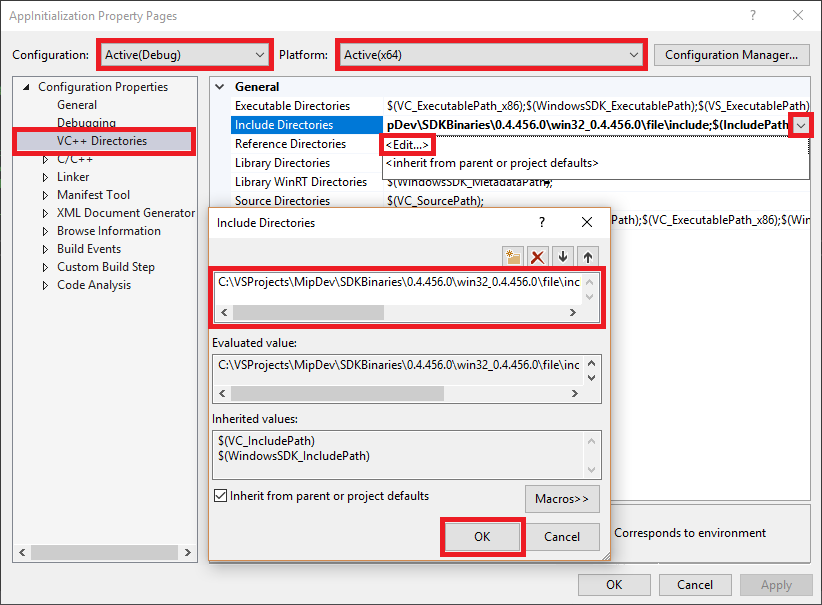
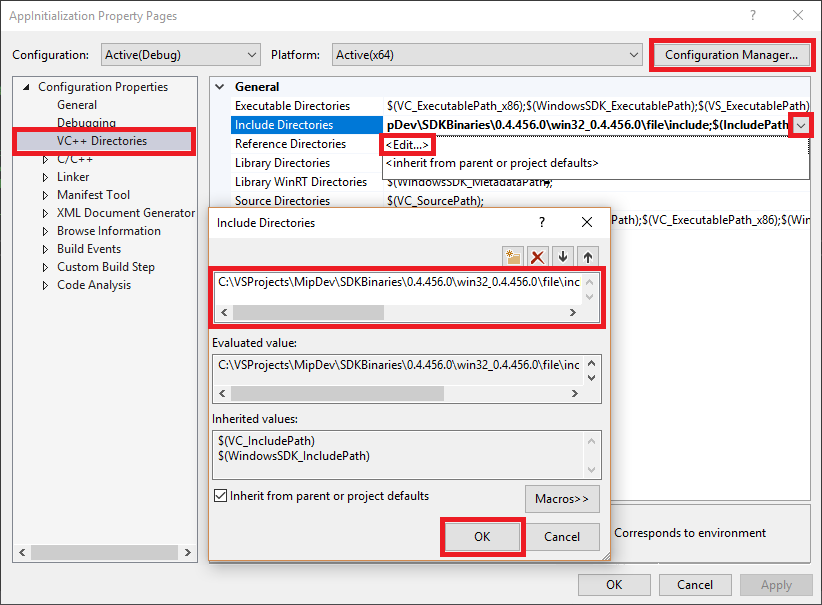
updates

Changed region(s): [[0.0912, 0.0595, 1.0, 0.119]]

diff --git a/mip/develop/quick-app-initialization-cpp.md b/mip/develop/quick-app-initialization-cpp.md
@@ -11,7 +11,7 @@ ms.author: bryanla
 
 # Quickstart: Client application initialization (C++)
 
-This quickstart illustrates the client initialization pattern used by the MIP C++ SDK at runtime. 
+This quickstart will show you how to implement the client initialization pattern, used by the MIP C++ SDK at runtime. 
 
 > [!NOTE]
 > The steps outlined in this quickstart are required for any client application that uses the MIP File, Policy, or Protection APIs. Although this Quickstart demonstrates usage of the File APIs, this same pattern is applicable to clients using the Policy and Protection APIs. Future Quickstarts should be done serially, as each one builds on the previous one, with this one being the first.
@@ -30,7 +30,7 @@ If you haven't already, be sure to:
 
 First we create and configure the initial Visual Studio solution and project, upon which the Quickstarts will build. 
 
-1. Open Visual Studio 2017, select **File**, **New**, **Project**. In the **New Project** dialog:
+1. Open Visual Studio 2017, select the **File** menu, **New**, **Project**. In the **New Project** dialog:
      - In the left pane, under **Installed**, **Other Languages**, select **Visual C++**.
      - In the center pane, select **Windows Console Application**
      - In the bottom pane, update the project **Name**, **Location**, and the containing **Solution name** accordingly.
@@ -38,29 +38,22 @@ First we create and configure the initial Visual Studio solution and project, up
 
      [![Visual Studio solution creation](media/quick-app-initialization-cpp/create-vs-solution.png)](media/quick-app-initialization-cpp/create-vs-solution.png#lightbox)
 
+
 2. Configure the project settings:
-   - In the **Solution Explorer**, right click on the project node (directly under the top/solution node), and select **Properties**.
-   - On the top of the **Property Pages** dialog, set your project build "Configuration" to **Debug**, and the "Platform" target to **x64**:
+   - In the **Solution Explorer**, right click on the project node (directly under the top/solution node), and select **Properties**. 
+   - On the top/right of the **Property Pages** dialog, click **Configuration Manager...**. On the **Configuration Manager** dialog, set your  "Active solution configuration" to **Debug**, and "Active solution platform" target to **x64**. Click **Close** when finished.
    - Under **Configuration Properties**, select the **VC++ Directories** node.
    - Select the **Include Directories** row, then click the drop-down on the right side, then **<Edit...>**, and enter the paths to the SDK include (.h) subdirectories in the top field. Specify the full paths to `file\include`, `protection\include`, `upe\include` subdirectories (but no deeper), within the path where you installed the SDK. Click **OK**. 
 
         [![Visual Studio solution creation](media/quick-app-initialization-cpp/set-include-lib-path-properties.png)](media/quick-app-initialization-cpp/set-include-lib-path-properties.png#lightbox)
 
-   - Repeat the previous step for the **Library Directories** row, entering the paths to the SDK binary static libraries (.lib) subdirectories. Be sure to use the paths that match the current build configuration for your solution (debug/release and platform target). Specify the full paths to the `file\bins\<debug/release>\<platform>`, `protection\bins\<debug/release>\<platform>`, `upe\bins\<debug/release>\<platform>` subdirectories.
+   - Repeat the previous step for the **Library Directories** row, entering the paths to the SDK binary static libraries (.lib) subdirectories. Be sure to use the paths that match the current build configuration for your solution. For this Quickstart, specify the absolute or relative paths to the `file\bins\debug\amd64`, `protection\bins\debug\amd64`, `upe\bins\debug\amd64` subdirectories.
 
-   - Under **Configuration Properties**, open the **Linker** node, and select the **Input**. 
-   - Select the **Include Directories** row, then click the drop-down on the right side, then **<Edit...>**. Add `mip_protection_sdk.lib;mip_file_sdk.lib;mip_upe_sdk.lib;` to the libraries list, in the top field. Click **OK**. 
+   - Under **Configuration Properties**, open the **Linker** node, and select the **Input** node. 
+   - Select the **Additional Dependencies** row, then click the drop-down on the right side, then **<Edit...>**. Here you add the names of the SDK static libraries. Add `mip_protection_sdk.lib;mip_file_sdk.lib;mip_upe_sdk.lib;` to the libraries list, in the top field. Click **OK**. 
    - Click **OK** on the **Property Pages** dialog when finished.
 
      [![Visual Studio solution creation](media/quick-app-initialization-cpp/set-static-libs.png)](media/quick-app-initialization-cpp/set-static-libs.png#lightbox)
-
-
-4. Add the path to the SDK binary dynamic libraries (.dll), to the PATH environment variable. This allows the dependent.DLLs to be found at runtime:
-   - Click the Windows icon in the lower left.
-   - Type "Path" and press the "Enter" key, when you see the **Edit the system environment variables** item show.
-   - On the **System Properties** dialog, click **Environment Variables**.
-   - Click the **Path** row under **User variables for \<user\>**, then click **Edit...**
-   - Click **New**, enter the same `\bins\<target>\<platform>` subdirectory path(s) you entered earlier for the SDK libraries, and click **OK**.
 
 ## Implement an observer class
 
@@ -68,7 +61,7 @@ Now create a basic implementation for an observer class, by extending the SDK's 
 
 1. Add a new class to your project, which generates both the header/.h and implementation/.cpp files for you:
 
-   - In the **Solution Explorer**, right click on the project node, select **Add**, then select **Class**.
+   - In the **Solution Explorer**, right click on the project node again, select **Add**, then select **Class**.
    - On the **Add Class** dialog:
      - In the **Class Name** field, enter "profile_observer". Notice that both the **.h file** and **.cpp file** fields are automatically populated, based on the name you enter.
      - When finished, click the **OK** button.
@@ -123,15 +116,17 @@ Now create a basic implementation for an observer class, by extending the SDK's 
           auto promise = static_pointer_cast<std::promise<shared_ptr<FileEngine>>>(context);
           promise->set_exception(error);
      }
-     ``` 
+     ```
+
+3. Optionally, use F6 (**Build Solution**) to run a test compile/link of your solution, to make sure it builds successfully before continuing.
 
 ## Implement an authentication delegate
 
-The MIP SDK implements authentication using class extensibility, providing a mechanism to share authentication work with the client application. The client application must acquire a suitable OAuth2 access token, and provided to the MIP SDK at runtime. 
+The MIP SDK implements authentication using class extensibility, which provides a mechanism to share authentication work with the client application. The client must acquire a suitable OAuth2 access token, and provided to the MIP SDK at runtime. 
 
 Now create an implementation for an authentication delegate, by extending the SDK's `mip::AuthDelegate` class, and overriding/implementing the `mip::AuthDelegate::AcquireOAuth2Token()` pure virtual function. The authentication delegate is instantiated and used later, by the File profile and File engine objects.
 
-1. Using the same Visual Studio "Add class" feature we used in step #1 of the previous section, add another class to your project. This time, enter "auth_delegate" in the **Class Name** field. 
+1. Using the same Visual Studio "Add Class" feature we used in step #1 of the previous section, add another class to your project. This time, enter "auth_delegate" in the **Class Name** field. 
 
 2. Now update each file to implement your new authentication delegate class:
 
@@ -186,6 +181,7 @@ Now create an implementation for an authentication delegate, by extending the SD
           return true;
      }
      ``` 
+3. Optionally, use F6 (**Build Solution**) to run a test compile/link of your solution, to make sure it builds successfully before continuing.
 
 ## Implement a consent delegate
 
@@ -196,7 +192,7 @@ Azure AD requires an application to be given consent, before it can access secur
 
 Now create an implementation for a consent delegate, by extending the SDK's `mip::ConsentDelegate` class, and overriding/implementing the `mip::AuthDelegate::GetUserConsent()` pure virtual function. The consent delegate is instantiated and used later, by the File profile and File engine objects.
 
-1. Using the same Visual Studio "Add class" feature we used previously, add another class to your project. This time, enter "consent_delegate" in the **Class Name** field. 
+1. Using the same Visual Studio "Add Class" feature we used previously, add another class to your project. This time, enter "consent_delegate" in the **Class Name** field. 
 
 2. Now update each file to implement your new consent delegate class:
 
@@ -227,12 +223,11 @@ Now create an implementation for a consent delegate, by extending the SDK's `mip
           return Consent::AcceptAlways;
      }
      ``` 
+3. Optionally, use F6 (**Build Solution**) to run a test compile/link of your solution, to make sure it builds successfully before continuing.
 
 ## Construct a File profile and engine
 
-As mentioned, profile and engine object are required for SDK clients using MIP APIs. 
-
-Complete the coding portion of this Quickstart, by adding code that instantiates the profile and engine: 
+As mentioned, profile and engine object are required for SDK clients using MIP APIs. Complete the coding portion of this Quickstart, by adding code to instantiate the profile and engine objects: 
 
 1. From **Solution Explorer**, open the .cpp file in your project that contains the implementation of the `main()` method. It defaults to the same name as the project containing it, which you specified during project creation.
 
@@ -293,11 +288,11 @@ Complete the coding portion of this Quickstart, by adding code that instantiates
 
    ``` 
 
-3. Now build the application and resolve any errors. Your code should build successfully, but will not yet run correctly until you complete the next Quickstart.
+3. Now do a final build of the application and resolve any errors. Your code should build successfully, but will not yet run correctly until you complete the next Quickstart.
 
 ## Next Steps
 
-Now you're ready for the next quickstart, where you'll start to experience the MIP File APIs.
+Now that your initialization code is complete, you're ready for the next quickstart, where you'll start to experience the MIP File APIs.
 
 > [!div class="nextstepaction"]
 > [List sensitivity labels](quick-file-list-labels-cpp.md)

diff --git a/mip/develop/quick-file-list-labels-cpp.md b/mip/develop/quick-file-list-labels-cpp.md
@@ -11,12 +11,7 @@ ms.author: bryanla
 
 # Quickstart: List sensitivity labels (C++)
 
-Introductory paragraph.
-<!--- Answer the fundamental "why would I want to do this?" question. --->
 
-Perhaps use https://github.com/tommoser/build-ILL-mip-sdk/wiki/Build-2018-Workshop-Instructions 
-
-In this quickstart, you will <do X>
 
 ## Prerequisites
 
@@ -34,7 +29,7 @@ Also: https://github.com/MicrosoftDocs/Azure-RMSDocs-pr/blob/release-mip/mip/dev
 
 ## Generate an access token and update `AcquireOAuth2Token()`
 
-4. Generate a test token using the following PowerShell script. The script uses the `Get-ADALToken` cmdlet you installed earlier,in MIP SDK Setup and configuration. 
+1. Generate a test token using the following PowerShell script. The script uses the `Get-ADALToken` cmdlet you installed earlier,in MIP SDK Setup and configuration. 
 
   - Update `$appId` and `redirectUri`, using the values you used in your Azure AD app registration. 
   - When you run the script, it triggers an Azure AD authentication prompt. Enter the credentials of a user from the same tenant where your application is registered:
@@ -48,7 +43,7 @@ Also: https://github.com/MicrosoftDocs/Azure-RMSDocs-pr/blob/release-mip/mip/dev
    $response.AccessToken | clip                                      # Copies the access token text to the clipboard
    ```
 
-5. Open "auth_delegate.cpp", and scroll to the the following line of your `AcquireOAuth2Token()` implementation. Replace the `<access-token>` placeholder, with the token placed on the clipboard in the previous step:
+2. Open "auth_delegate.cpp", and scroll to the the following line of your `AcquireOAuth2Token()` implementation. Replace the `<access-token>` placeholder, with the token placed on the clipboard in the previous step:
 
    ```cpp
    string accessToken = "<access-token>";
@@ -56,21 +51,15 @@ Also: https://github.com/MicrosoftDocs/Azure-RMSDocs-pr/blob/release-mip/mip/dev
 
 ## Build and test the application
 
-Finally, build and test your client application. 
-
-- TBD - compile/build instructions
-- If your code builds and runs successfully, you should see the following output in the console window. [TBD: REPLACE THIS]
+Finally, build and test your client application. If your code builds and runs successfully, you should see output similar to the following in the console window. 
 
 ```cmd
 Non-Business : 87ba5c36-b7cf-4793-bbc2-bd5b3a9f95ca
 Public : 87867195-f2b8-4ac2-b0b6-6bb73cb33afc
 General : f42aa342-8706-4288-bd11-ebb85995028c
 Confidential : 074e257c-5848-4582-9a6f-34a182080e71
-->  Microsoft FTE : d9f23ae3-a239-45ea-bf23-f515f824c57b
-->  Microsoft Extended : 9fbde396-1a24-4c79-8edf-9254a0f35055
 Highly Confidential : f5dc2dea-db0f-47cd-8b20-a52e1590fb64
-->  Microsoft FTE : f74878b7-c0ff-44a4-82ff-8ce29f7fccb5
-->  Microsoft Extended : c179f820-d535-4b2f-b252-8a9c4ac14ec6
+
 Press any key to continue . . .
 ```
 

diff --git a/mip/develop/setup-configure-mip.md b/mip/develop/setup-configure-mip.md
@@ -91,7 +91,19 @@ Next, complete the following steps to ensure your client computer is set up and 
    - TBD: Download .zip and copy to a local/project directory? If so, https://aka.ms/mipsdkbins or https://aka.ms/MIPSDKPreviewBins?
      - OR use NuGet packages from VS?
 
-6. Ensure "Developer Mode" is enabled on your workstation:
+6. Add the paths of the SDK binaries (dynamic link libraries (.dll)), to the PATH environment variable. This allows the dependent .DLLs to be found at runtime, by client applications:
+   - Click the Windows icon in the lower left.
+   - Type "Path" and press the "Enter" key, when you see the **Edit the system environment variables** item show.
+   - On the **System Properties** dialog, click **Environment Variables**.
+   - On the **Environment Variables** dialog, click the **Path** variable row under **User variables for \<user\>**, then click **Edit...**.
+   - On the **Edit environment variable** dialog, click **New**, which creates a new editable row. Using the full path to each of the `file\bins\debug\amd64`, `protection\bins\debug\amd64`, and `upe\bins\debug\amd64` subdirectories, add a new row for each. The SDK directories are stored in a `<API>\bins\<target>\<platform>` format, where:
+     - \<API\> = `file`, `protection`, `upe`
+     - \<target\> = `debug`, `release`
+     - \<platform\> = `amd64` (aka: x64), `x86`, etc.
+   
+   - When finished updating the **Path** variable, click **OK**. Then click **OK** when returned to the **Environment Variables** dialog.
+
+7. Ensure "Developer Mode" is enabled on your workstation:
     - Click the Windows icon in the lower left.
     - Type "Use developer features" and press the "Enter" key, when you see the **Use Developer Features** item show.
     - On the **Settings** dialog, **For developers** tab, under "Use developer features", select the **Developer mode** option.
